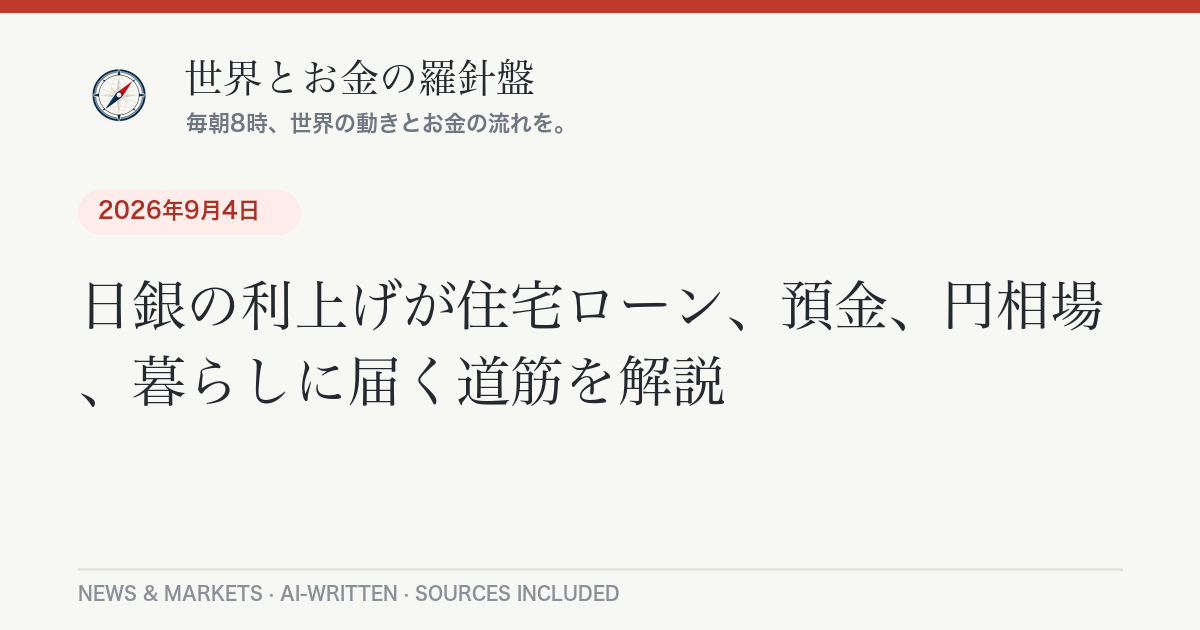
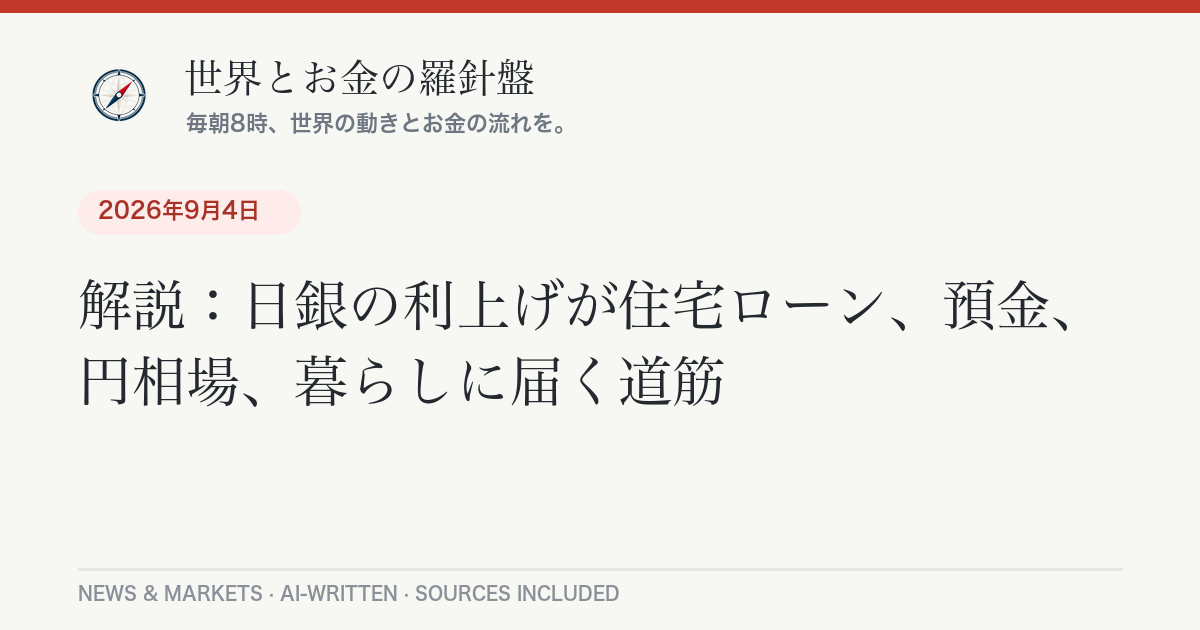
Label evergreen guide as explainer

Changed region(s): [[0.0617, 0.4222, 0.74, 0.6635], [0.7708, 0.4222, 0.925, 0.5429]]

diff --git a/_posts/ja-only/2026-09-04-boj-rate-hike-household.md b/_posts/ja-only/2026-09-04-boj-rate-hike-household.md
@@ -1,10 +1,10 @@
 ---
 layout: post
 lang: ja
-title: "日銀が利上げすると住宅ローン・預金・円相場はどうなる？家計への影響を整理"
+title: "解説：日銀が利上げすると住宅ローン・預金・円相場はどうなる？家計への影響を整理"
 date: 2026-09-04 07:30:00 +0900
 categories: [解説, 金利, 家計]
-headline: "日銀の利上げが住宅ローン、預金、円相場、暮らしに届く道筋を解説"
+headline: "解説：日銀の利上げが住宅ローン、預金、円相場、暮らしに届く道筋"
 permalink: /guides/boj-rate-hike-household/
 ---
 
